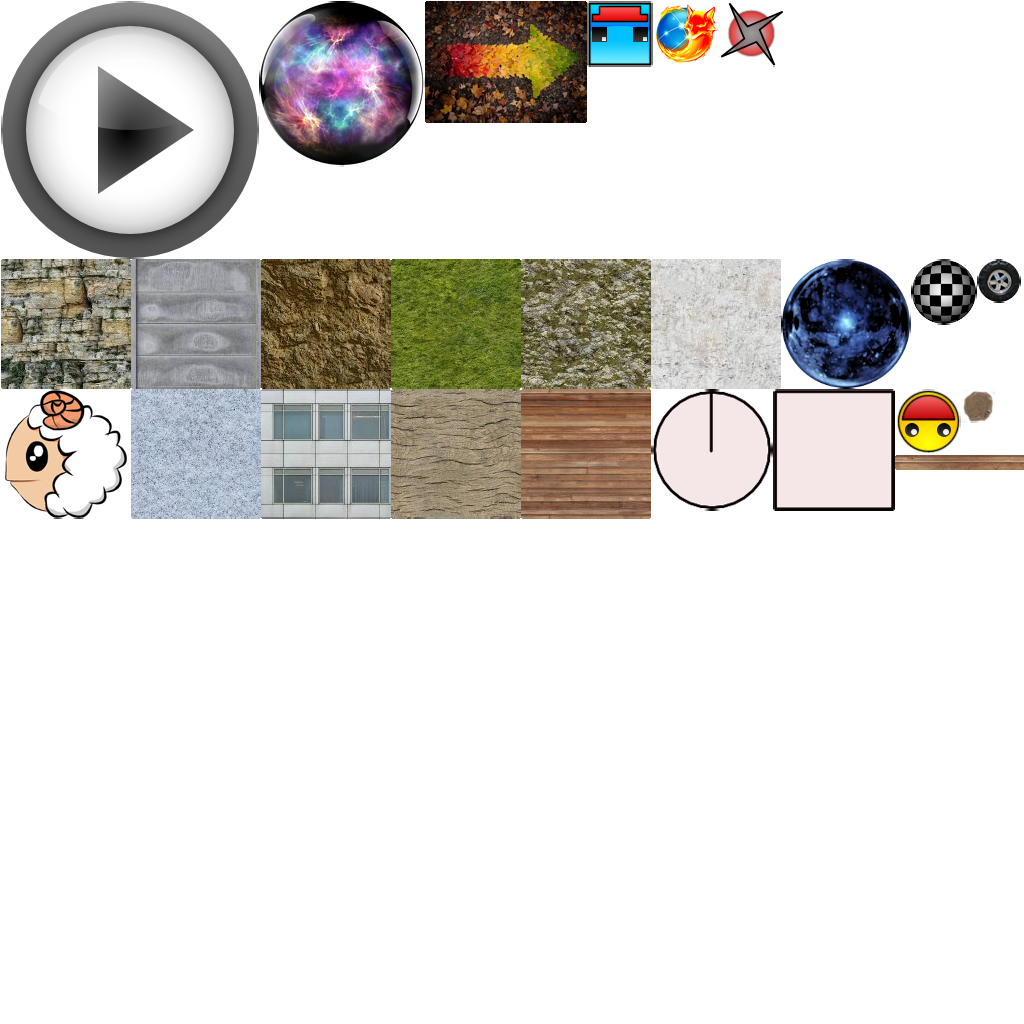
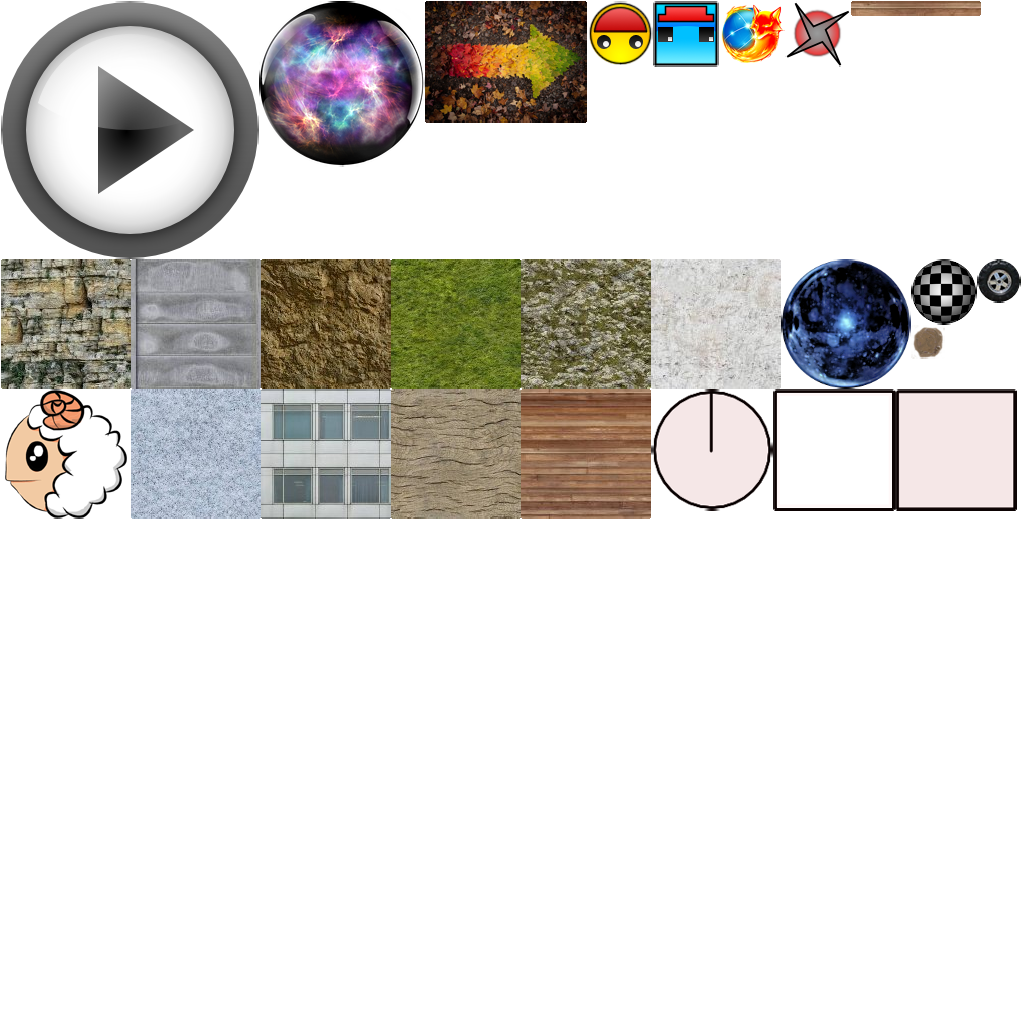
Show selected item with box

Changed region(s): [[0.5625, 0.0, 0.9688, 0.0625], [0.875, 0.375, 1.0, 0.5], [0.875, 0.3125, 0.9375, 0.3438]]

diff --git a/main.py b/main.py
@@ -36,6 +36,7 @@ class TestGame(Widget):
 		self.mainTools.setTool("draw")
 		self.startID = -1
 		self.finishID = -1
+		self.selectedShapeID = None
 		self.space = None
 		self.serials = None
 		self.scripty = None
@@ -372,7 +373,7 @@ class TestGame(Widget):
 		shape = None#space.point_query_first(position)
 		shapes = self.getShapesAtVec(position)
 		if len(shapes) >0: shape = shapes[0]
-		if shapes==self.lastlist:
+		if shapes==self.lastlist and shapes != []:
 			self.selectedListIndex +=1
 			if self.selectedListIndex == len(shapes):self.selectedListIndex=0
 			shape=shapes[self.selectedListIndex]
@@ -395,6 +396,7 @@ class TestGame(Widget):
 		print "Tool is: " + currentTool
 		ctouch['active'] = True
 
+
 		if currentTool in ["draw", "square", "box", "circle", "plank"]:
 			ctouch['previewShape'] = self.create_decoration(pos=(0, 0), width=0, height=0,
 															texture=self.mainTools.spriteSpinner.text)
@@ -416,6 +418,14 @@ class TestGame(Widget):
 			space.reindex_shape(shape)
 			ctouch['touching'] = shape
 		self.mainTools.setShape(shape)
+
+		ent = self.mainTools.selectedEntity
+		if ent:
+			print dir(ent)
+			if self.selectedShapeID != None:self.delObj(self.selectedShapeID)
+			self.selectedShapeID = self.create_decoration(pos=(shape.body.position.x, shape.body.position.y),
+			                                                 width=ent.physics_renderer.width*1.1, height=ent.physics_renderer.height*1.1,
+															texture='emptybox')
 
 		if shape and not shape.body.is_static and (
 				currentTool == 'drag' or currentTool == 'paste' or currentTool == 'pin'):
@@ -459,6 +469,11 @@ class TestGame(Widget):
 			self.delObj(o)
 		self.todelete = []
 		self.mainTools.update(dt)
+		ent = self.mainTools.selectedEntity
+		if self.selectedShapeID != None and ent != None:
+			sbox = self.getEntFromID(self.selectedShapeID)
+			sbox.position.x =ent.position.x
+			sbox.position.y =ent.position.y
 		if not self.mainTools.paused:
 			self.gameworld.update(dt)
 			for t in self.touches:
